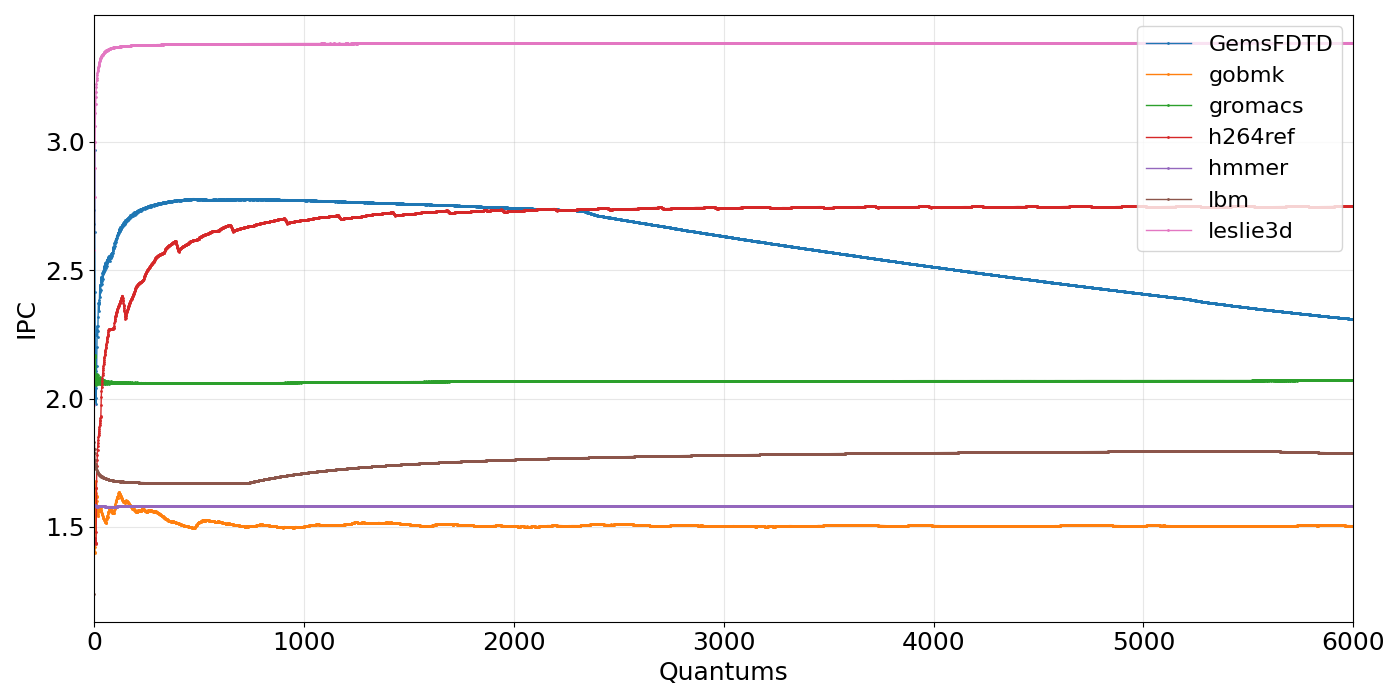
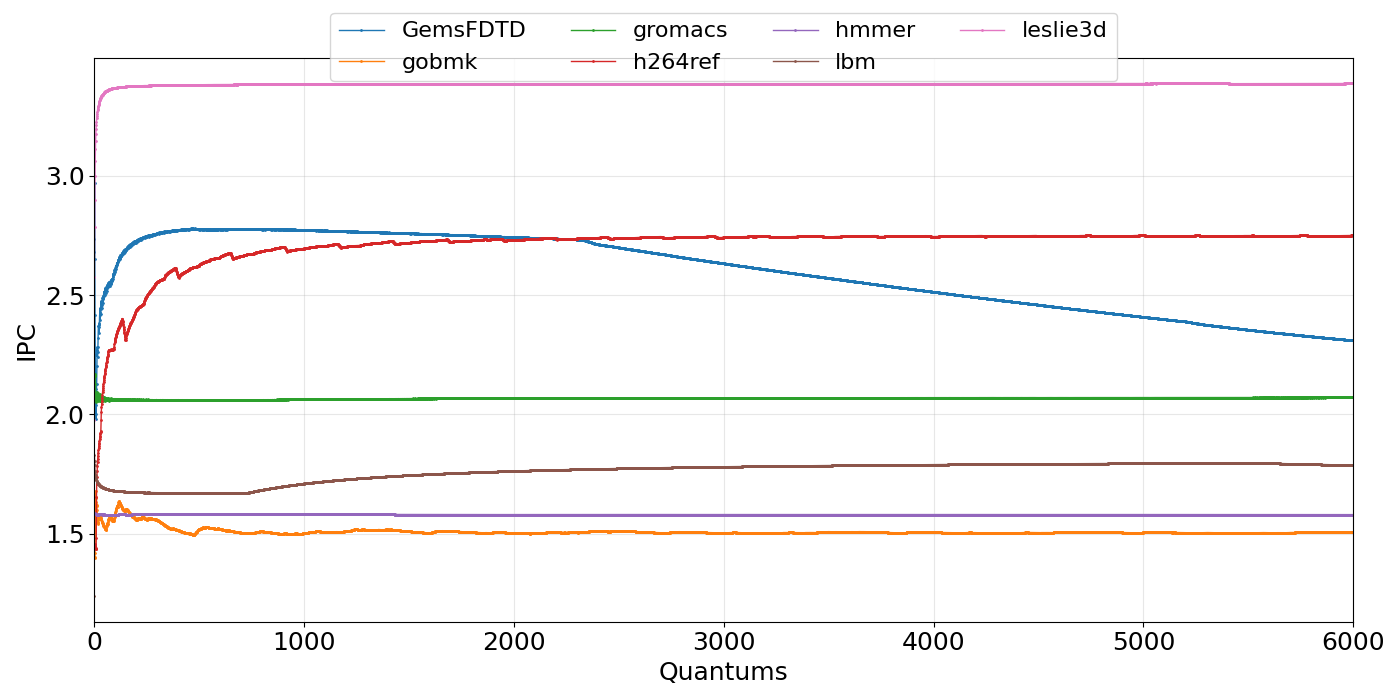
more

diff --git a/graficar.py b/graficar.py
@@ -59,7 +59,7 @@ def main():
             plt.yticks(fontsize=18)
             plt.grid(True, alpha=0.3)
             plt.xlim(0, 6000)
-            plt.legend(loc='upper right', bbox_to_anchor=(1, 1), fontsize=16)
+            plt.legend(loc='upper center', bbox_to_anchor=(0.5, 1.1), fontsize=16, ncol=4)
             plt.tight_layout()
             
             # Guardar figura
